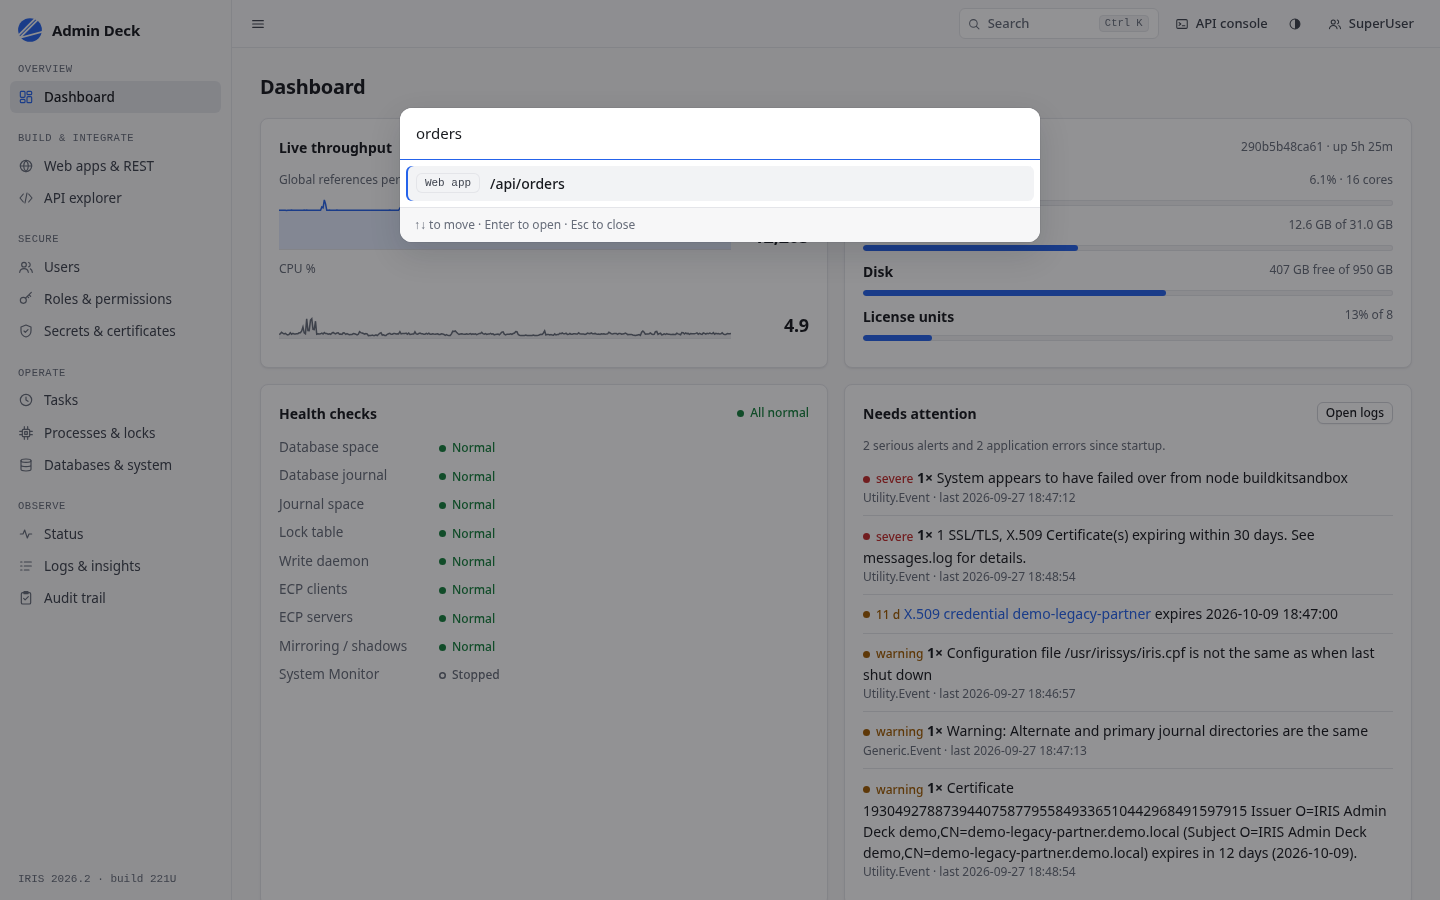
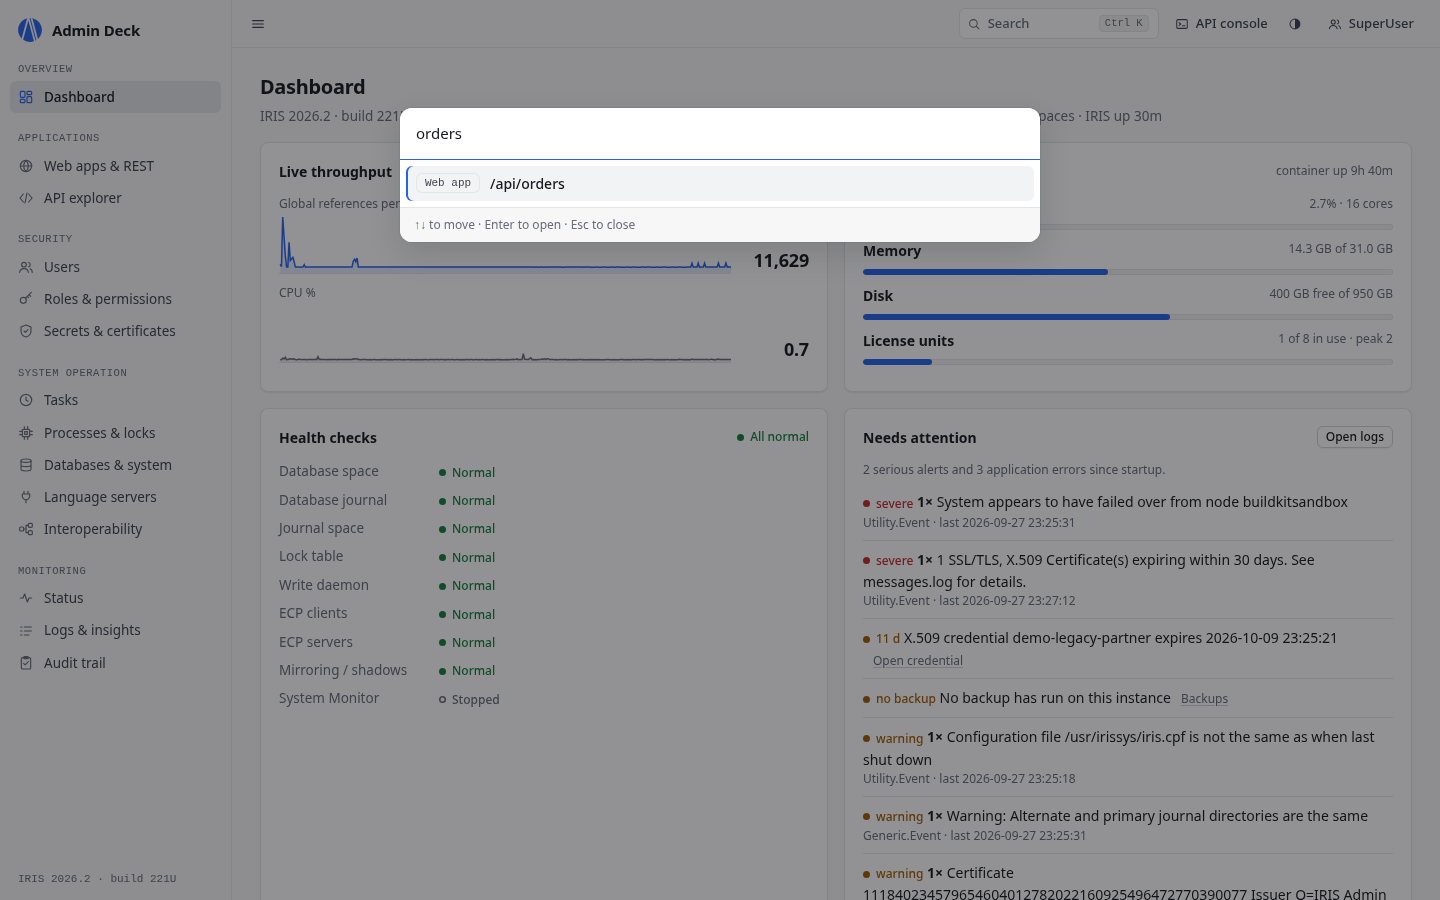
README: known weak spots; new screenshots

diff --git a/scripts/screenshots.py b/scripts/screenshots.py
@@ -72,6 +72,15 @@ def main():
             screen(page, "roles", "access-matrix", tab="Access matrix")
             screen(page, "secrets", "secrets-x509", tab="X.509 credentials")
             screen(page, "system", "databases")
+            screen(page, "interop", "interop")
+            page.goto(f"{UI}#/system/journal")
+            settle(page)
+            page.locator(".tab-body tbody tr.clickable").first.locator("button:has-text('Records')").click()
+            page.wait_for_selector(".journal-records .journal-status", timeout=60_000)
+            page.locator(".journal-records").scroll_into_view_if_needed()
+            page.evaluate("document.querySelector('.journal-records').scrollIntoView({block: 'start'})")
+            page.wait_for_timeout(1500)
+            shot(page, "journal")
             screen(page, "logs", "timeline", ms=2500)
             screen(page, "logs", "logs-insights", tab="Recurring problems")
             screen(page, "logs", "logs-similar", tab="Similar incidents")

diff --git a/README.md b/README.md
@@ -192,8 +192,10 @@ daily at 03:15. Other or rotated files can be indexed from Similar incidents wit
 - Similar incidents matches wording, not meaning.
 - Very large logs: only the last 8 MB of a file is parsed.
 - OS metrics are Linux-only (`/proc`, `statvfs`).
-- Some detail views (a web application, the license) still show raw API field names and codes, e.g.
-  `AutheEnabled 32` instead of "Password".
+- Some fields are still shown as IRIS returns them, e.g. a process's `JobType` number, which the API doesn't
+  name.
+- Free space per database comes from `/api/monitor/metrics`. Behind a proxy that only forwards `/api/admin`
+  and `/admindeck`, that column stays empty.
 - The Docker image is a local development instance with the well-known `SuperUser`/`SYS` login bound to
   localhost. The public demo is a separate, read-only deployment.
 
@@ -233,7 +235,8 @@ More detail: [docs/ARCHITECTURE.md](docs/ARCHITECTURE.md).
 | ![Tasks](docs/img/tasks.png) Tasks | ![API console](docs/img/api-console.png) API console |
 | ![Access matrix](docs/img/access-matrix.png) Access matrix | ![X.509](docs/img/secrets-x509.png) X.509 credentials with expiry |
 | ![Web apps](docs/img/webapps.png) Web apps & REST | ![API explorer](docs/img/explorer.png) API explorer |
-| ![Databases](docs/img/databases.png) Databases | |
+| ![Databases](docs/img/databases.png) Databases | ![Journal](docs/img/journal.png) Journal records |
+| ![Interoperability](docs/img/interop.png) Interoperability productions | |
 
 ## Development
 
